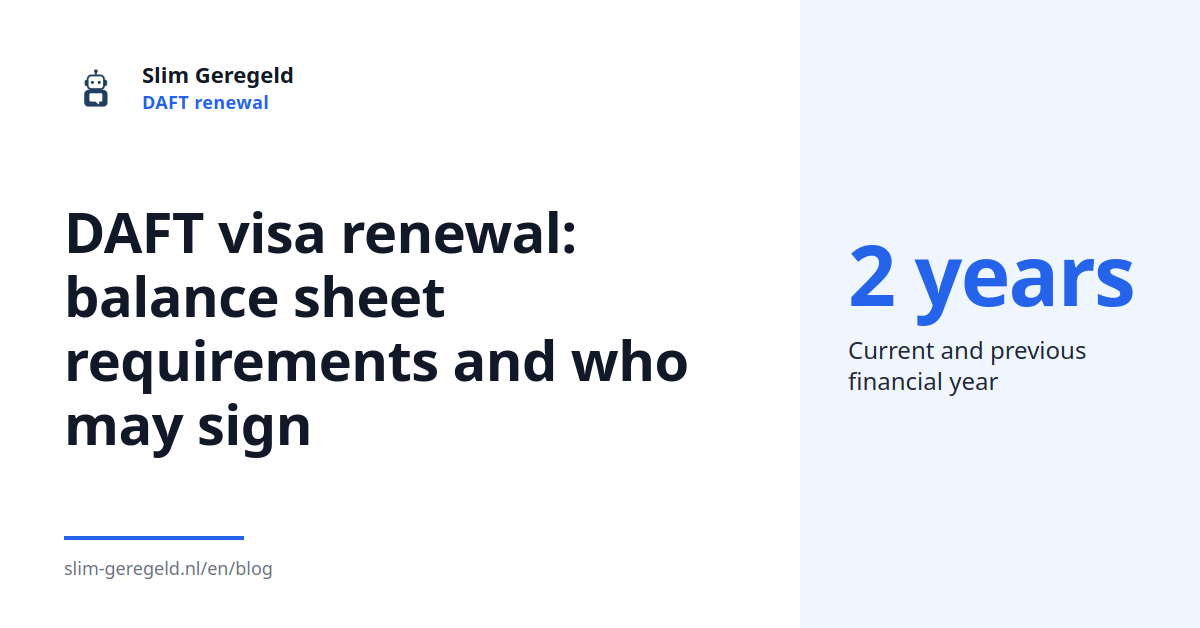
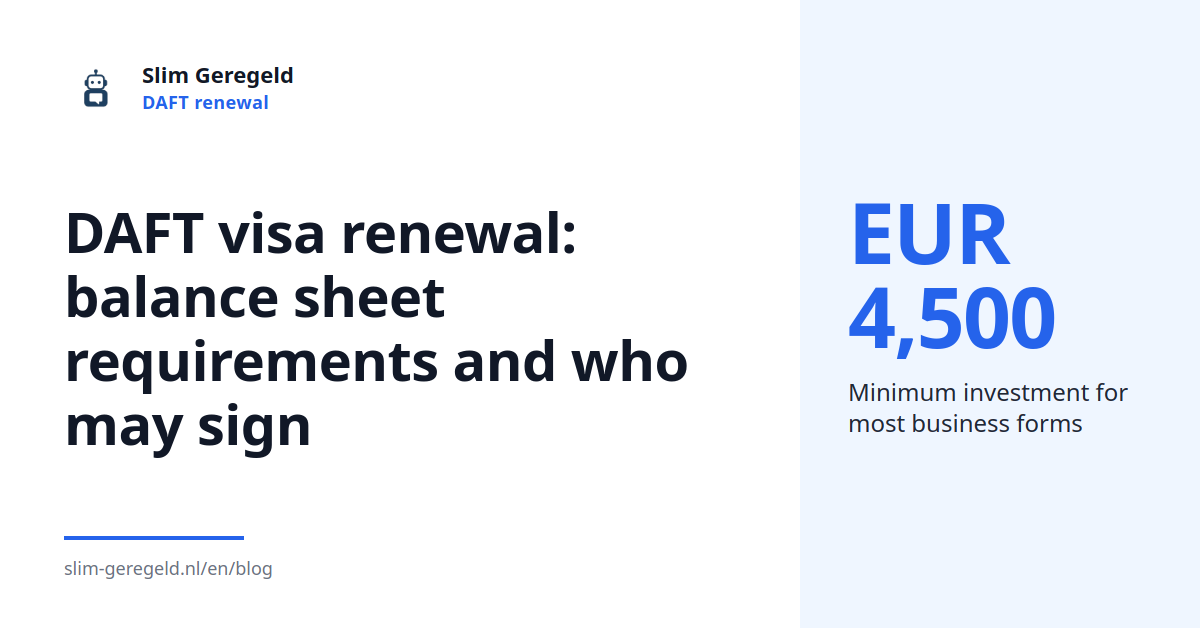
Blog bijgewerkt: DAFT visa renewal: balance sheet requirements and who may sign (en)

Changed region(s): [[0.7092, 0.3025, 0.9558, 0.6959]]

diff --git a/content/blog/en/daft-renewal-balance-sheet-requirements.md b/content/blog/en/daft-renewal-balance-sheet-requirements.md
@@ -1,103 +1,75 @@
 ---
 title: "DAFT visa renewal: balance sheet requirements and who may sign"
-description: "What IND forms 7035 and 7535 require for DAFT renewal, which financial years to include, and who can prepare and sign your financial evidence."
+description: "What IND forms 7035 and 7535 require for DAFT renewal: two financial years, checked accounts, invested capital and who may sign."
 date: 2026-11-05
 updated: 2026-11-05
 author: kyle
 lang: en
 translationKey: daft-renewal-balance-sheet-requirements
 cluster: daft-verlenging
-tags: ["DAFT", "renewal", "balance sheet", "IND", "financial statements"]
+tags: ["DAFT renewal", "balance sheet", "IND requirements", "Becon bookkeeper"]
 faq:
-  - q: "Is a bank statement enough for DAFT renewal?"
-    a: "The treaty sections of forms 7035 and 7535 explicitly say that a bank statement is insufficient. They request balance sheets and profit and loss accounts covering the current and previous financial year."
-  - q: "Does the IND require two completed financial years?"
-    a: "The forms specify the current and previous financial year, including interim figures. Ask your bookkeeper to confirm the reporting periods before preparing the documents."
-  - q: "Must a chartered accountant sign the financial evidence?"
-    a: "The renewal checklist requires an authorised external expert and gives an accountant as an example. The IND’s separate treaty application form also lists bookkeepers and financial advisers as independent experts."
-  - q: "Does a Becon number guarantee that the IND accepts the documents?"
-    a: "A Becon number identifies a tax service provider with the Belastingdienst. The financial evidence must still meet the IND’s requirements for expert checking and the relevant reporting periods."
+  - q: "Is a business bank statement enough for DAFT renewal?"
+    a: "The treaty checklist explicitly says it is insufficient. It asks for checked balance sheets and profit and loss accounts covering the current and previous financial year."
+  - q: "Do I need two completed financial years?"
+    a: "The forms refer to the current and previous financial year and allow interim accounts. That differs from asking for two completed annual reporting periods."
+  - q: "What is the difference between forms 7035 and 7535?"
+    a: "7035 is the Dutch-language work-related extension form; 7535 is its English-language counterpart. Both include a specific checklist for American and Japanese treaty applicants."
+  - q: "Must a chartered accountant check the financial documents?"
+    a: "The renewal checklist requires an authorised external expert and gives an accountant as an example. The IND’s separate self-employed application form also lists bookkeepers and financial advisers among independent external experts."
+  - q: "Does topping up the business account resolve an earlier capital shortfall?"
+    a: "An additional personal contribution increases business equity. It does not establish that the required capital remained invested throughout the earlier period."
 status: live
 image: /blog/img/daft-renewal-balance-sheet-requirements.png
 ---
 
-For DAFT visa renewal, the IND requests a balance sheet (balans) and profit and loss account (winst-en-verliesrekening). These must cover the current and previous financial year and receive external expert checking. A bank statement alone is insufficient under the [treaty renewal checklist](https://ind.nl/en/forms/7535.pdf).
+DAFT visa renewal requires checked financial statements covering the current and previous financial year. The treaty checklist in [IND form 7535](https://ind.nl/en/forms/7535.pdf) asks for a balance sheet (balans) and profit and loss account (winst-en-verliesrekening). A bank statement alone is explicitly insufficient, and an authorised external expert must check the accounts.
 
-## What documents do forms 7035 and 7535 request?
+## What do forms 7035 and 7535 ask for?
 
-Both forms request financial statements covering the same periods for treaty-based renewals. The table below compares their financial evidence requirements.
+Both forms contain a specific financial checklist for American and Japanese treaty applicants. [Form 7035](https://ind.nl/nl/formulieren/7035.pdf) is the Dutch-language version; 7535 is the English-language counterpart. Their treaty sections ask for the same documents, showing that invested capital has been maintained. Use that section when identifying the financial evidence for your treaty renewal.
 
-| Form | Language | Financial periods requested | Required checking |
-|---|---|---|---|
-| [7035](https://ind.nl/nl/formulieren/7035.pdf) | Dutch | Current and previous financial year | Authorised external expert |
-| [7535](https://ind.nl/en/forms/7535.pdf) | English | Current and previous financial year | Authorised external expert |
+Four people asked me about renewal evidence during the 12 months ending 4 November 2026. Across those enquiries, people asked whether a bank statement would cover the financial evidence. My explanation starts with the reporting periods and the accounts needed for each. Those reporting periods provide a concrete starting point for reviewing their records.
 
-These are renewal application forms with sections for different work-related permits. The relevant financial checklist sits under the American and Japanese treaty category. Both request evidence showing that the invested capital has been maintained.
+## Which two financial years should the accounts cover?
 
-In the 12 months ending 4 November 2026, four people asked me about renewal evidence. Their questions covered the documents, the reporting years, and whether bank statements would suffice.
+The checklist specifies the current financial year (boekjaar) and the previous financial year. [The English form](https://ind.nl/en/forms/7535.pdf) expressly allows interim accounts, meaning figures prepared before the current year has finished. For a business using calendar years and applying in November 2026, that means 2026 and 2025. The current year’s figures therefore cover the relevant period available when preparing the application.
 
-I start by identifying the financial periods before preparing the statements. That lets me give you a specific list of bookkeeping records to send.
+For my preparation work, I check the period printed on every report. A previous-year report and a current-year report need clearly identified dates. Your opening balance sheet establishes the starting position, which I then reconcile with subsequent business activity. The renewal file needs the figures covering the periods requested on the form.
 
-## Which two financial years should your statements cover?
+## Why is a bank statement insufficient?
 
-The forms specify the current financial year and the previous financial year. They expressly allow an interim balance sheet, so the request includes figures from an unfinished year. You can check that wording in the [Dutch renewal form](https://ind.nl/nl/formulieren/7035.pdf).
+A bank statement cannot provide the complete picture covered by the requested accounts. As [KVK explains](https://www.kvk.nl/producten-bestellen/welke-gegevens-staan-er-in-een-jaarrekening/), a balance sheet shows the business position at a particular moment. Revenue and costs over a period appear in the profit and loss account. Together, these reports explain the financial position and the result from business activity.
 
-For your financial year (boekjaar), I check the accounting period used in your records. I also ask you to confirm your application timing and the periods already recorded in your bookkeeping.
+In my renewal preparation, I reconcile the bank records with the bookkeeping. That includes reviewing personal withdrawals, contributions and the recorded business result. The bank statement remains useful supporting material during that work. The finished figures must account for the movements affecting business equity (eigen vermogen).
 
-I then establish which figures are complete and which need updating. Before I prepare the documents, I ask for the records covering both requested periods.
+## Who may check and sign the financial documents?
 
-In several enquiries, people needed clarification about which years to supply. My practical starting point is to write the reporting periods down before collecting the supporting records.
+The renewal checklist requires an authorised external expert and names an accountant as an example. For context, the IND’s [separate self-employed application form](https://ind.nl/en/Forms/7524.pdf) lists accountants, bookkeepers and financial advisers as authorised independent external experts. That broader list appears in the application form, while the renewal checklist uses the shorter description. These are the actual descriptions to use when discussing who will check your accounts.
 
-## Why does a bank statement fall short?
+I’m Kyle Bouwmeester, a Becon-registered bookkeeper, registration number 781794, at Slim Geregeld Administratie. For the financial part of a renewal, I prepare and sign the balance sheet. Miguel Weema handles DAFT guidance until the dossier is ready for signing. The division of work is explained further on the [DAFT renewal page](/daft/renewal/).
 
-A bank statement cannot provide the complete financial picture requested for renewal. The treaty checklist explicitly says it is insufficient.
+## How can withdrawals reduce the capital available at renewal?
 
-A [balance sheet records the business’s financial position](https://www.kvk.nl/en/ordering-products/financial-statements-what-information-can-i-find-in-financial-statements/) at a particular moment. The profit and loss account summarises revenue and expenses over a period.
+Personal withdrawals reduce business equity, even when the business makes a profit. The [Belastingdienst explains](https://www.belastingdienst.nl/wps/wcm/connect/bldcontentnl/belastingdienst/zakelijk/winst/inkomstenbelasting/inkomstenbelasting_voor_ondernemers/privestortingen_en_priveonttrekkingen) that personal withdrawals (privéonttrekkingen) reduce business capital without being deductible business expenses. Personal contributions (privéstortingen) increase that capital without becoming business profit. This distinction matters when reconciling your profit with the money taken out for living costs.
 
-Across several renewal enquiries, people asked whether their bank statement would be enough. I explain that the renewal documents cover both business activity and the capital remaining in the business.
+The pattern below occurred in at least three renewal-related dossiers or enquiries. It combines an initial investment, a business profit and withdrawals exceeding that profit. These are round illustrative amounts, separate from any individual entrepreneur’s figures.
 
-In my work, I check equity (eigen vermogen), meaning business assets minus business debts. Private withdrawals and a first-year loss can reduce that equity before renewal.
+| Movement in this worked example | Amount | Running equity |
+|---|---|---|
+| Initial personal contribution | EUR 4,500 | EUR 4,500 |
+| First-year profit | EUR 2,000 | EUR 6,500 |
+| Personal withdrawals | EUR 3,000 withdrawn | EUR 3,500 |
+| Additional personal contribution | EUR 1,000 | EUR 4,500 |
 
-That is why I check equity quarterly in my Compliance Plan. If your records need attention, I want to identify the missing information while the supporting documents are still available.
+The calculation starts with EUR 4,500 plus EUR 2,000 profit, giving EUR 6,500. Withdrawals of EUR 3,000 leave EUR 3,500, which is EUR 1,000 below the starting capital. An additional contribution of EUR 1,000 restores the example’s equity to EUR 4,500.
 
-## Who may prepare and sign the financial evidence?
+That final contribution does not establish that capital remained invested throughout the earlier period. The [IND’s treaty guidance](https://ind.nl/en/residence-permits/work/residence-permit-self-employed-person) says renewal evidence is used to check business activity and whether invested capital remained in the business. It also gives EUR 4,500 as the minimum investment for most business forms. A restored closing figure therefore needs to be read alongside the preceding financial records.
 
-The renewal checklist requires an authorised external expert and names an accountant as an example.
+## What should you prepare before the accounts are checked?
 
-For additional context, the treaty section of [IND form 7524](https://ind.nl/en/forms/7524.pdf) explicitly includes bookkeepers and financial advisers among independent external experts. That form concerns applications for self-employment, so I keep its purpose separate from the renewal checklist.
+For my financial review, I use the underlying records to prepare the requested reports. My working material includes bookkeeping exports, bank records and information explaining personal contributions and withdrawals. These are preparation materials for checking the figures; the application’s document checklist remains the IND form. Spreadsheet bookkeeping is a normal starting point in the dossiers I handle.
 
-I am Kyle Bouwmeester, a Becon-registered bookkeeper, registration number 781794. I prepare and sign the balance sheet.
-
-A [Becon number](https://www.belastingdienst.nl/wps/wcm/connect/nl/intermediairs/content/wat-is-een-beconnummer-wat-zijn-de-voordelen) identifies a tax service provider with the Dutch tax authority (Belastingdienst). Your renewal evidence still needs the checking specified in the IND checklist.
-
-Miguel Weema, the DAFT specialist at Slim Geregeld Administratie, guides applicants until their file is ready for signing.
-
-When you ask me to check existing records, I need the underlying bookkeeping. My role includes preparing the figures and checking the evidence supporting them.
-
-## Does the first-application procedure change your renewal requirements?
-
-The first-application procedure has a different timetable from renewal. The IND’s [treaty guidance](https://ind.nl/en/residence-permits/work/residence-permit-self-employed-person) explains the procedure introduced in April 2024. First-time treaty applicants without an existing Dutch residence permit receive six months for registration and investment, starting from the date on their decision letter.
-
-For renewal, that guidance says the IND checks whether the business remained active and the invested capital stayed in the business. Your annual accounts (jaarrekening) provide financial evidence for that assessment.
-
-I therefore keep the opening balance sheet as a starting record. It documents the initial investment and gives me a reference when preparing renewal figures.
-
-## How should you prepare your bookkeeping for renewal?
-
-I start with your existing records and identify what needs completing. Several people have asked whether keeping their bookkeeping in a spreadsheet creates a problem.
-
-Google Sheets is a perfectly normal starting point. I work in Moneybird, and I can prepare a balance sheet from records kept elsewhere.
-
-I use the following preparation sequence.
-
-1. Send your existing bookkeeping and financial statements.
-2. Include the bank statements supporting those records.
-3. Gather invoices and receipts for entries that need checking.
-4. Identify private payments and withdrawals for review.
-5. Confirm the reporting periods before I prepare the statements.
-
-You can read about my role on the [DAFT renewal service page](/daft/renewal/). Start by gathering the records you already have, including any spreadsheet you currently use.
-
-Sources: [Belastingdienst](https://www.belastingdienst.nl/wps/wcm/connect/nl/intermediairs/content/wat-is-een-beconnummer-wat-zijn-de-voordelen), [IND](https://ind.nl/en/residence-permits/work/residence-permit-self-employed-person)
+Sources: [IND Dutch renewal form](https://ind.nl/nl/formulieren/7035.pdf), [IND treaty guidance](https://ind.nl/en/residence-permits/work/residence-permit-self-employed-person), [IND expert descriptions](https://ind.nl/en/Forms/7524.pdf), [Belastingdienst contributions and withdrawals](https://www.belastingdienst.nl/wps/wcm/connect/bldcontentnl/belastingdienst/zakelijk/winst/inkomstenbelasting/inkomstenbelasting_voor_ondernemers/privestortingen_en_priveonttrekkingen), [KVK financial statements](https://www.kvk.nl/producten-bestellen/welke-gegevens-staan-er-in-een-jaarrekening/)
 
 Written with AI assistance, checked against the sources of the Belastingdienst (Dutch tax authority) and the IND.
